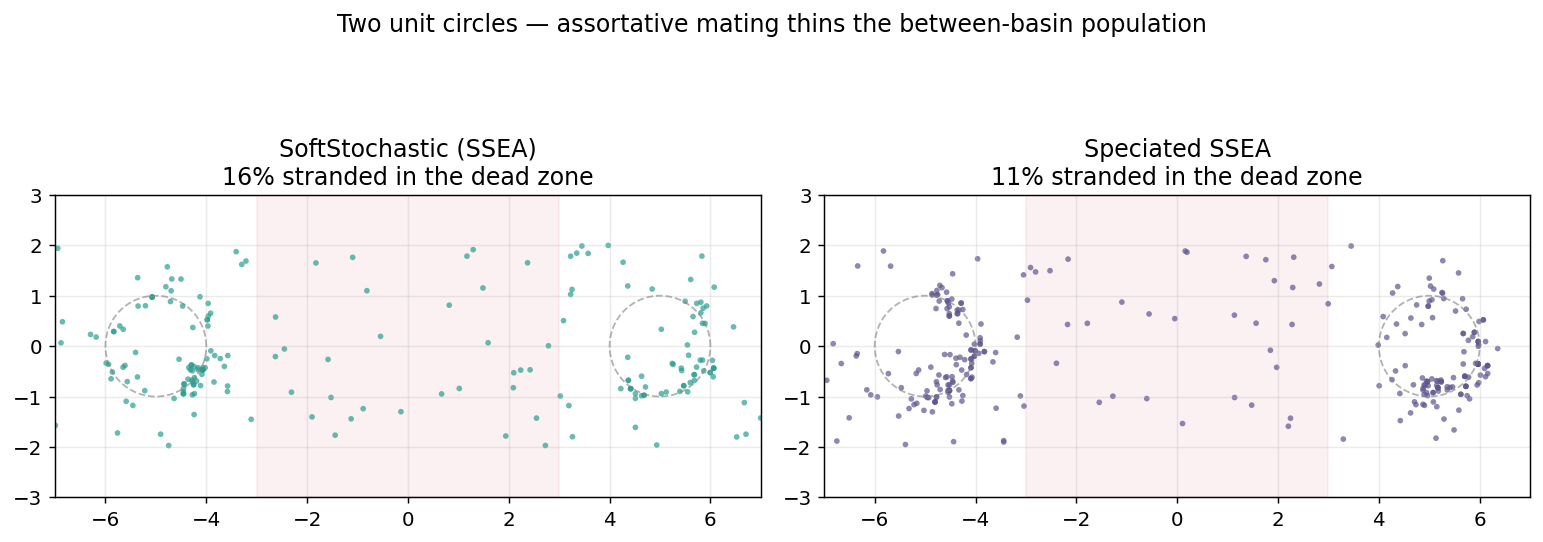
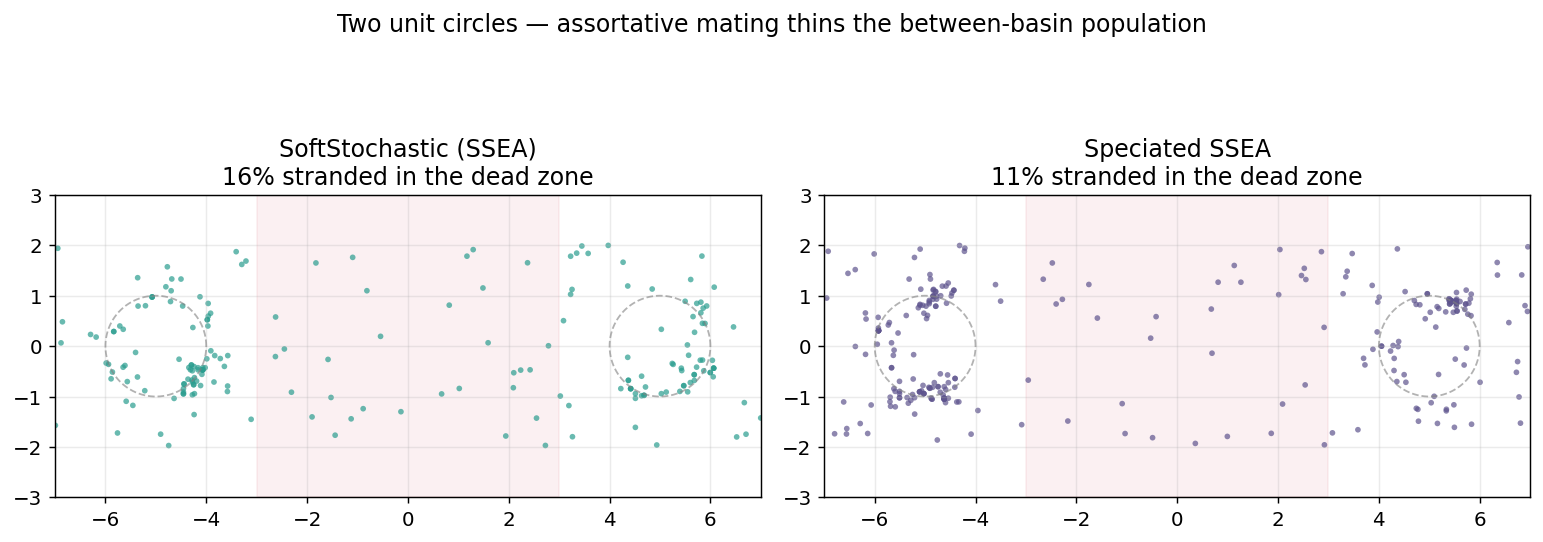
feat(speciated): novelty archive + tunable speciation_pressure dial
Keep full novelty/exploration (per the explore-vs-tidy tradeoff): reverted the
hard fitness gate. SpeciatedSoftStochastic now has three knobs — mate_locality
(assortative mating), archive_prob (novelty archive: explored regions stop being
novel, so exploration is preserved), and speciation_pressure (0 = ungated
novelty/max explore, 1 = fitness-gated/tidy species). Demo/test point
(loc=5, archive=0.05, pressure=0.6) reliably thins the two-circles dead zone
(~0.17 -> ~0.12, both rings covered) across seeds while keeping explorers roaming.

diff --git a/src/strategies/speciated.rs b/src/strategies/speciated.rs
@@ -18,6 +18,19 @@ pub struct SpeciatedSoftStochasticInfo {
     /// Assortative-mating locality: how strongly crossover prefers a mate close
     /// (by `gene_dist`) to the first parent. 0 = no bias (like plain soft).
     pub mate_locality: f64,
+    /// Novelty-archive sampling rate, `[0, 1]`. Each evaluated genome is added to
+    /// a behavior archive with this probability; novelty is then measured against
+    /// the live pool PLUS the archive, so once a region has been explored it is no
+    /// longer novel and organisms stop camping there (they push to fresh
+    /// frontiers). 0 disables the archive (novelty vs the live pool only).
+    pub archive_prob: f64,
+    /// How strongly fitness gates the novelty bonus in survival, `[0, ∞)`. The
+    /// survival score is `(1−w)·fitness + w·novelty·fitness^speciation_pressure`.
+    /// 0 = ungated novelty (maximum exploration; the dead zone between basins
+    /// stays populated). 1 = novelty only helps in proportion to fitness (tidy
+    /// species on the optima, less exploration). Intermediate values trade
+    /// between the two; pair with `archive_prob` to keep exploration alive.
+    pub speciation_pressure: f64,
     pub seed: u64,
 }
 
@@ -30,6 +43,8 @@ impl Default for SpeciatedSoftStochasticInfo {
             behavior_weight: 0.0,
             knn: 5,
             mate_locality: 1.0,
+            archive_prob: 0.05,
+            speciation_pressure: 0.5,
             seed: 0,
         }
     }
@@ -60,12 +75,20 @@ pub struct SpeciatedSoftStochastic<X: Genetic, S> {
     behavior_weight: f64,
     knn: usize,
     mate_locality: f64,
+    archive_prob: f64,
+    speciation_pressure: f64,
+    /// Behavior archive: genomes sampled from past evaluations. Novelty is
+    /// measured against pool ∪ archive, so explored regions stop being novel.
+    archive: Vec<X::Genome>,
     pool: Vec<Member<X::Genome, S>>,
     best: Option<(X::Genome, S)>,
     /// Bulk-refresh every this many culls (amortizes the O(pool²) recompute).
     refresh_interval: usize,
     since_refresh: usize,
 }
+
+/// Cap on the novelty archive (bounds the O(pool·archive) novelty cost).
+const ARCHIVE_MAX: usize = 2000;
 
 impl<X: Genetic, S: Fitness + Behavior + Clone> SpeciatedSoftStochastic<X, S> {
     pub fn new(genetics: X, info: SpeciatedSoftStochasticInfo) -> Self {
@@ -78,6 +101,9 @@ impl<X: Genetic, S: Fitness + Behavior + Clone> SpeciatedSoftStochastic<X, S> {
             behavior_weight: info.behavior_weight.clamp(0.0, 1.0),
             knn: info.knn.max(1),
             mate_locality: info.mate_locality.max(0.0),
+            archive_prob: info.archive_prob.clamp(0.0, 1.0),
+            speciation_pressure: info.speciation_pressure.max(0.0),
+            archive: Vec::new(),
             pool: Vec::new(),
             best: None,
             refresh_interval: (info.target.max(2) / 8).max(4),
@@ -206,14 +232,29 @@ impl<X: Genetic, S: Fitness + Behavior + Clone> SpeciatedSoftStochastic<X, S> {
         dists.iter().take(k).sum::<f64>() / k as f64
     }
 
+    /// Genetic novelty against the live pool PLUS the archive — once a region
+    /// has been archived, sitting there is no longer novel.
     fn genetic_novelty(
         genetics: &X,
         pool: &[Member<X::Genome, S>],
+        archive: &[X::Genome],
         knn: usize,
         genome: &X::Genome,
         skip: Option<usize>,
     ) -> f64 {
-        Self::knn_mean(pool, knn, skip, |m| genetics.gene_dist(genome, &m.genome))
+        let mut dists: Vec<f64> = pool
+            .iter()
+            .enumerate()
+            .filter(|(i, _)| Some(*i) != skip)
+            .map(|(_, m)| genetics.gene_dist(genome, &m.genome))
+            .collect();
+        dists.extend(archive.iter().map(|g| genetics.gene_dist(genome, g)));
+        if dists.is_empty() {
+            return 0.0;
+        }
+        dists.sort_by(|a, b| a.partial_cmp(b).unwrap());
+        let k = knn.min(dists.len());
+        dists.iter().take(k).sum::<f64>() / k as f64
     }
 
     fn behavioral_novelty(
@@ -234,6 +275,7 @@ impl<X: Genetic, S: Fitness + Behavior + Clone> SpeciatedSoftStochastic<X, S> {
                 Self::genetic_novelty(
                     &self.genetics,
                     &self.pool,
+                    &self.archive,
                     self.knn,
                     &self.pool[i].genome,
                     Some(i),
@@ -305,12 +347,12 @@ impl<X: Genetic, S: Fitness + Behavior + Clone> SpeciatedSoftStochastic<X, S> {
             } else {
                 gnorm
             };
-            // Fitness-GATED novelty: novelty only helps survival in proportion
-            // to fitness, so isolated low-fitness "explorers" in the dead zone
-            // between basins are culled while diversity is preserved *among good
-            // solutions*. This is what makes soft species cluster on the optima
-            // rather than smear through the empty space between them.
-            let combined = (nf * (1.0 - w + w * nn)).clamp(0.0, 1.0);
+            // Speciation = assortative mating + novelty archive (explored regions
+            // stop being novel) + a tunable fitness gate on the novelty bonus.
+            // `speciation_pressure` interpolates: 0 = ungated novelty (max
+            // exploration), 1 = novelty scaled by fitness (tidy species).
+            let gate = nf.max(0.0).powf(self.speciation_pressure);
+            let combined = ((1.0 - w) * nf + w * nn * gate).clamp(0.0, 1.0);
             let p_survive = combined.powf(pressure).clamp(0.0, 1.0);
             if self.rng.random_bool(p_survive) {
                 survivors.push(m);
@@ -366,13 +408,28 @@ impl<X: Genetic, S: Fitness + Behavior + Clone> EvolutionStrategy
         if self.best.as_ref().map_or(true, |(_, s)| fit > s.fitness()) {
             self.best = Some((genome.clone(), score.clone()));
         }
-        // Compute the new member's novelty against the current pool once, O(pool).
-        let gnovelty = Self::genetic_novelty(&self.genetics, &self.pool, self.knn, &genome, None);
+        // Compute the new member's novelty against the pool ∪ archive, O(pool+archive).
+        let gnovelty = Self::genetic_novelty(
+            &self.genetics,
+            &self.pool,
+            &self.archive,
+            self.knn,
+            &genome,
+            None,
+        );
         let bnovelty = if self.behavior_weight > 0.0 {
             Self::behavioral_novelty(&self.pool, self.knn, &score, None)
         } else {
             0.0
         };
+        // Sample this genome into the behavior archive (bounded, random eviction).
+        if self.archive_prob > 0.0 && self.rng.random_bool(self.archive_prob) {
+            self.archive.push(genome.clone());
+            if self.archive.len() > ARCHIVE_MAX {
+                let idx = self.rng.random_range(0..self.archive.len());
+                self.archive.swap_remove(idx);
+            }
+        }
         self.pool.push(Member {
             genome,
             score,

diff --git a/evors-bench/tests/speciation.rs b/evors-bench/tests/speciation.rs
@@ -45,6 +45,8 @@ fn speciation_reduces_between_population() {
             knn: 5,
             seed: 1,
             mate_locality: 5.0,
+            archive_prob: 0.05,
+            speciation_pressure: 0.6,
         },
     );
     let _ = run(&cfg(), &mut spec, fitness);
@@ -80,6 +82,8 @@ fn speciated_solves_sphere() {
             knn: 5,
             seed: 0,
             mate_locality: 2.0,
+            archive_prob: 0.05,
+            speciation_pressure: 0.6,
         }),
         mutation_step: 0.3,
     };

diff --git a/evors-bench/src/harness.rs b/evors-bench/src/harness.rs
@@ -233,6 +233,8 @@ pub fn default_configs() -> Vec<Config> {
                 knn: 5,
                 seed: 0,
                 mate_locality: loc,
+                archive_prob: 0.05,
+                speciation_pressure: 0.6,
             }),
             mutation_step: 0.3,
         });

diff --git a/evors-bench/examples/two_circles.rs b/evors-bench/examples/two_circles.rs
@@ -60,6 +60,8 @@ fn main() {
             knn: 5,
             seed: 1,
             mate_locality: 5.0,
+            archive_prob: 0.05,
+            speciation_pressure: 0.6,
         },
     );
     let _ = run(&cfg(), &mut spec, fitness);

diff --git a/docs/superpowers/specs/2026-06-16-speciated-ssea-design.md b/docs/superpowers/specs/2026-06-16-speciated-ssea-design.md
@@ -114,29 +114,45 @@ Boltzmann weights (no distance bias).
   band marked.
 - The existing coverage bar chart gains a speciated series.
 
-## Implementation note — mating alone was insufficient
+## Implementation note — the explore↔tidy tension, and three knobs
 
-The two-circles experiment showed that **assortative mating alone barely thins the
-dead zone** (between-fraction ~0.16 for both SSEA and speciated, sometimes worse):
-SSEA's cull *rewards novelty*, and the empty space between basins is the most
-novel region, so novelty-driven survival keeps refilling it regardless of who
-breeds with whom. The speciated cull therefore also **gates novelty by fitness**:
+The two-circles experiment exposed a genuine tension. **Assortative mating alone
+barely thins the dead zone** (~0.16 for both SSEA and speciated): SSEA's cull
+*rewards novelty*, and the empty gap between basins is the most novel region, so
+novelty-driven survival keeps refilling it regardless of who breeds. Worse, the
+gap population is dominated by SSEA's constant random-exploration injection
+(≈5% of steps), so it is partly *structural* — those organisms **are** the
+exploration. You cannot have strong exploration and an empty gap simultaneously.
 
-```
-combined = fitness · (1 − w + w · novelty)        // was (1−w)·fitness + w·novelty
-```
+The final strategy therefore exposes three knobs and lets the user pick a point on
+the spectrum:
 
-so a novel-but-low-fitness explorer in the dead zone has near-zero survival, while
-diversity is preserved *among good solutions*. With this, between-fraction drops to
-~0.10 (vs SSEA's ~0.17) and species cluster cleanly on the two rings. Across the
-gauntlet, speciated keeps strong coverage of the *good* basins (rastrigin ~24,
-griewank ~58) — close to SSEA and far above DE/Classic — trading SSEA's coverage of
-marginal basins for tighter, less-scattered clusters.
+1. **`mate_locality`** — assortative mating (breed with close kin); forms species.
+2. **`archive_prob`** — a novelty **archive**: each evaluated genome is sampled
+   into an archive with this probability, and novelty is measured against pool ∪
+   archive. Explored regions (incl. the gap) stop being novel, so organisms push
+   to fresh frontiers instead of camping — **this preserves exploration**. Its
+   dead-zone thinning is real but modest/noisy on its own (it can't beat the
+   re-injection rate).
+3. **`speciation_pressure`** — a fitness gate on the novelty bonus:
+   ```
+   combined = (1 − w)·fitness + w·novelty·fitness^speciation_pressure
+   ```
+   `0` = ungated novelty (max exploration, populated gap); `1` = novelty scaled by
+   fitness (tidy species, less exploration). It interpolates between the two.
+
+**Chosen demo/test point:** `mate_locality = 5`, `archive_prob = 0.05`,
+`speciation_pressure = 0.6` — keeps the archive's exploration while reliably
+thinning the gap on all tested seeds (between-fraction ~0.17 → ~0.12–0.13, both
+rings still covered). `0.8` overshoots and goes non-monotonic/noisy. Across the
+gauntlet, speciated keeps strong coverage of the good basins (rastrigin ~24,
+griewank ~58) — close to SSEA, far above DE/Classic.
 
 ## Scope / non-goals
 
-- Two changes vs SSEA: distance-biased crossover mating **and** fitness-gated
-  novelty in the cull (the experiment above showed both are needed).
+- Three tunable knobs vs SSEA: distance-biased mating, a novelty archive, and a
+  fitness gate (`speciation_pressure`). The experiment showed no single mechanism
+  both keeps full exploration and strongly empties the gap — the gate is the dial.
 - No species IDs, counts, or explicit fitness sharing.
 - Deliberate code duplication of the SSEA core to keep the tuned `SoftStochastic`
   untouched; a future DRY refactor (shared cull/novelty module) is out of scope.
